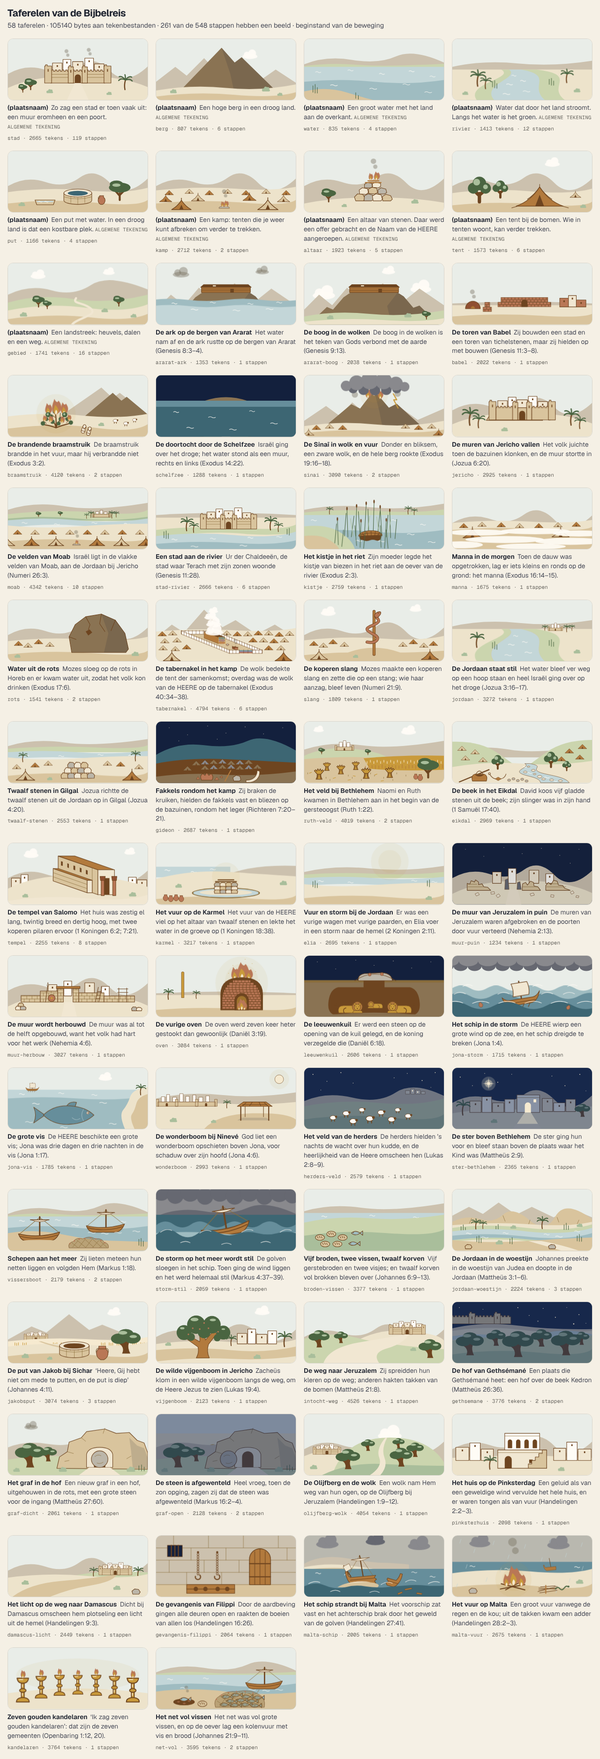
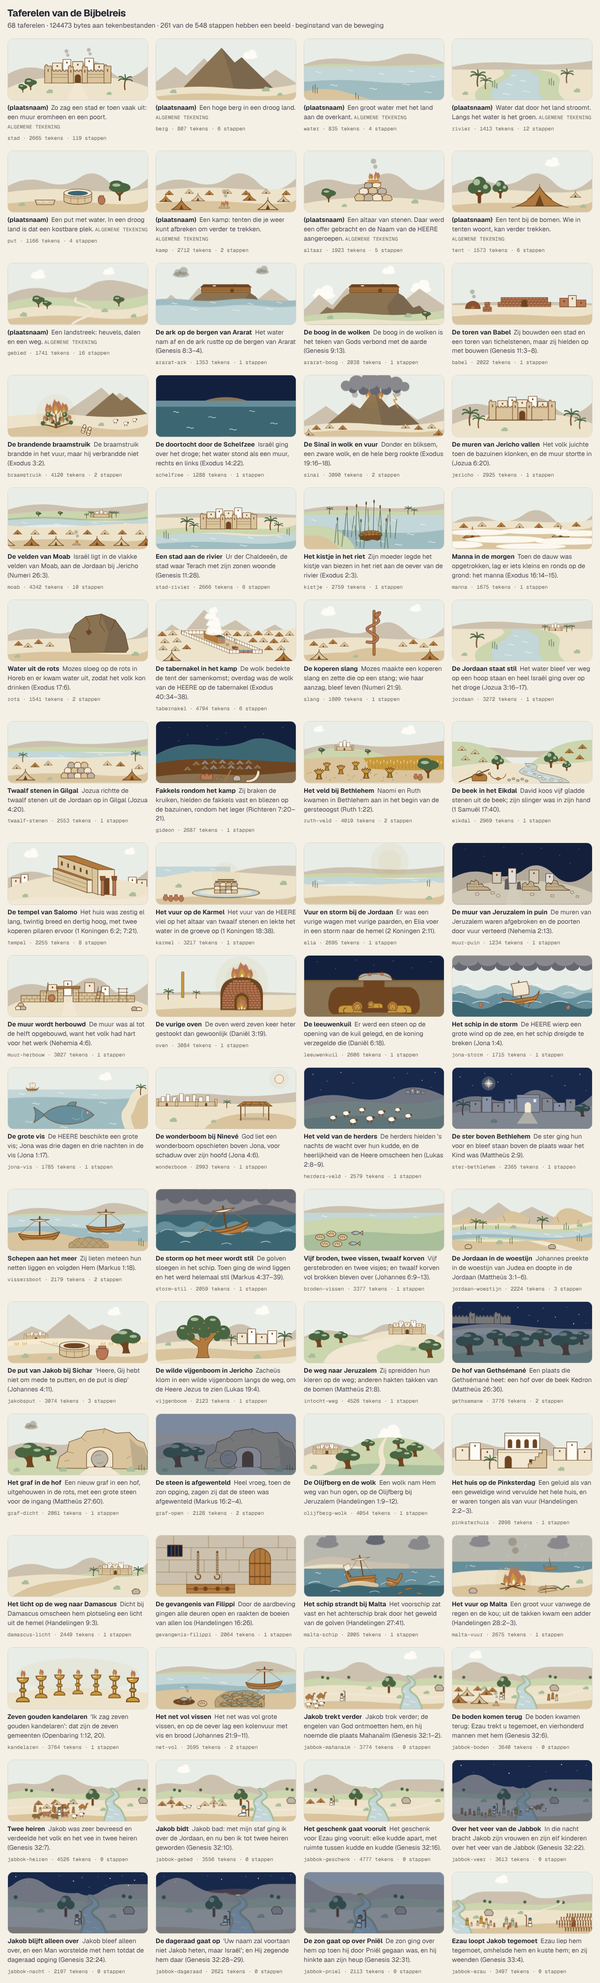
Bijbelreis: beeldverhaal bij Genesis 32 in tien taferelen (Jakob bij de Jabbok)
Claude-Session: https://claude.ai/code/session_01UATKx6UxsaYkAXo5tNKtaQ

diff --git a/public/bijbelreis/taferelen-jakob.js b/public/bijbelreis/taferelen-jakob.js
@@ -1,0 +1,149 @@
+// Beeldverhaal bij Genesis 32 en 33:1–4: Jakob bij de Jabbok, in tien taferelen (één bij elke stap van het deel
+// genesis:jakob-jabbok). Motor, bouwstenen (BR.tfTeken) en standaardbeelden: taferelen.js. Regels en tekenafspraken:
+// docs/bijbelreis-taferelen/README.md. Elk tafereel is gecontroleerd met de Statenvertaling (node scripts/sv.mjs "Genesis 32").
+// God wordt niet afgebeeld, en de Man Die met Jakob worstelt dus ook niet (32:30: ‘ik heb God gezien van aangezicht tot
+// aangezicht’); de engelen van 32:1 evenmin. Mensen staan er wel: klein, als pictogram en zonder gezicht. Jakob herken je
+// aan zijn staf (32:10), zijn witte kleed en zijn blauwe hoofddoek. Het is steeds hetzelfde dal: links de ronde berg, in
+// het midden de kloof waar de Jabbok uit komt, rechts de vlakke berg; de eik staat bij het veer. Het verhaal gaat van
+// links (het kamp) naar rechts (de overkant, waar Ezau vandaan komt). Welke stap welk beeld krijgt: taferelen-koppeling-jakob.js.
+window.BR = window.BR || { boeken: [], plaatsen: {}, W: {}, personen: {} };
+BR.taferelen = BR.taferelen || {};
+(function () {
+  const K = BR.tfTeken;
+  const h = (n) => Math.round(n * 2) / 2;
+  // Een cirkel als deel van een pad (één boog die bijna rond is); middelpunt (x, y).
+  const cirkel = (x, y, r) => `M${h(x)} ${h(y - r)}a${r} ${r} 0 1 0 .1 0`;
+  // Een vorm uit een sjabloon (M absoluut, de rest relatief, zonder bogen) op (x, y), s keer zo groot.
+  const vorm = (d, x, y, s) => d.replace(/([a-zA-Z])([^a-zA-Z]*)/g, (_, c, n) => c + (n.match(/-?\d*\.?\d+/g) || []).map((g, i) => h(g * s + (c === "M" ? (i ? y : x) : 0))).join(" ")).replace(/ -/g, "-");
+  const rij = (l, f) => l.map((a) => f(...a)).join("");
+
+  // ---------- het dal van de Jabbok ----------
+  // Eén landschap, breder dan het beeld (x van -90 tot 480); elk tafereel kijkt door een eigen venster (verschuiving en
+  // vergroting). De rug in de verte dient ook als omtrek voor de sluier bij de dageraad.
+  const RUG = "M-90 62Q-60 50-30 54T20 46Q50 20 82 46 110 64 140 60 160 70 178 60 200 44 226 44H296Q318 44 336 54T400 56 480 50V140H-90z";
+  const dal = (venster) => `<g${venster ? ` transform="${venster}"` : ""}><path class="k-berg2" d="${RUG}"/>` +
+    `<path class="k-groen" d="M-90 80Q-40 62 10 72T100 76Q140 70 160 80 190 66 240 70T340 74 480 66V140H-90z"/><path class="l-salie2 rand" d="M-34 68h.1M-22 70h.1M26 68h.1M224 66h.1M236 68h.1M316 68h.1M392 67h.1M404 69h.1"/>` +
+    `<path class="k-land" d="M-90 92Q-20 82 60 88T160 90 280 86 480 88V140H-90z"/><path class="k-zand" d="M-90 128Q0 118 100 126T300 122 480 126V140H-90z"/>` +
+    // de weg: door het kamp naar het veer, en aan de overkant het land in, naar het zuiden
+    `<path class="l-duin breed" d="M-90 112Q-20 102 60 108T152 111M184 113Q230 117 270 105T352 89"/><path class="l-duin dik" d="M356 86Q384 80 402 68"/>` +
+    // de beek met groen langs het water, en het veer
+    `<path class="k-zee oever" d="M161 67C165 72 170 76 168 80S150 88 150 96 156 108 153 116 147 132 146 140H192C190 132 186 124 182 116S164 104 164 96 178 88 176 80 167 72 164 67z"/>` +
+    `<path class="l-wit tf-l-golf" d="M153 100q2-2.5 4 0t4 0M159 113q2.5-2.5 5 0t5 0M156 130q3-2.5 6 0t6 0M172 124q2.5-2.5 5 0t5 0"/>` +
+    // de eik bij het veer, de rots aan de overkant en een paar struiken
+    `<path class="l-hout2 breed" d="M118 102V90"/><path class="k-salie2" d="${cirkel(110, 82, 8) + cirkel(126, 82, 8) + cirkel(118, 75, 10)}"/><path class="k-salie" d="${cirkel(114, 73, 4.5)}"/>` +
+    K.steen("M226 99l-3-8 6-6 10 1 5 7-2 6", "k-steen") + `<path class="k-salie" d="${rij([[136, 116], [198, 106], [66, 96], [300, 96]], (x, y) => `M${x} ${y}q-3-5 3-5 1-4 5-2 4-1 4 3 2 2 0 4z`)}"/></g>`;
+  // Vensters: A het kamp op de linkeroever (de beek rechts in beeld), geen venster: het veer in het midden, C dichtbij op
+  // de linkeroever, D dichtbij bij het veer met de kloof erboven, E de overkant (de beek links in beeld).
+  const A = "translate(76 0)", C = "translate(-15 -28) scale(1.25)", D = "translate(-71 -28) scale(1.25)", E = "translate(-150 0)";
+  // Nacht (zie de README): nachtlucht erachter, het land in gewone kleuren, daaroverheen de sluier, de sterren erna.
+  const nacht = `<path class="k-nacht" d="M0 0h320v140H0z"/>`, sluier = `<path class="k-sluier" d="M0 0h320v140H0z"/>`;
+  // Sterren: kleine stippen, en met g = 1 een paar grotere.
+  const sterren = (p, g) => `<path class="l-licht${g ? " dik" : ""}" d="${rij(p, (x, y) => `M${x} ${y}h.1`)}"/>`;
+
+  // ---------- mensen: klein, als pictogram, zonder gezicht ----------
+  // Een lang kleed en een hoofd. l = [[x, y, schaal], …], de voeten op (x, y). Een vrouw heeft een doek over het hoofd,
+  // in de kleur van haar kleed.
+  const LIJF = "M-3 0l1-8.5q2-1.5 4 0l1 8.5z";
+  const mensen = (l, k = "k-hout") => `<path class="${k} o2" d="${rij(l, (x, y, s = 1) => vorm(LIJF, x, y, s))}${k === "k-hout" ? "" : `"/><path class="k-hout o2" d="`}${rij(l, (x, y, s = 1) => cirkel(x, y - 11 * s, h(2.2 * s)))}"/>`;
+  const vrouwen = (l, k) => `<path class="${k} o2" d="${rij(l, (x, y, s = 1) => vorm(LIJF + "M-2.5-8q-.5-5.5 2.5-5.5t2.5 5.5z", x, y, s))}"/>`;
+  // Jakob: wit kleed, blauwe gordel en hoofddoek, de staf in de hand (Genesis 32:10). stand: "" staat, "k" knielt, "l" leunt op de staf.
+  const KLEED = `<path class="k-wit o2" d="${LIJF}"/><path class="k-water2" d="M-2.5-5.5h5v1.5h-5z"/>`;
+  const KOP = `<circle class="k-hout o2" cy="-11" r="2.2"/><path class="k-water2" d="M-2.5-11a2.5 2.5 0 0 1 5 0z"/>`;
+  const STAF = (x) => `<path class="l-hout2" d="M${x} 0v-15q0-2.5-2.5-2.5"/>`;
+  const jakob = (x, y, s = 1, stand = "") => `<g ${K.op(x, y, s)}>` + (stand === "k"
+    ? STAF(6) + `<path class="k-wit o2" d="M-6 0h9l-.5-7.5q-2-1.5-4 0l-.5 4.5q-4 .5-4 3z"/><path class="k-water2" d="M-2-4.5h4.5v1.5H-2z"/><g transform="translate(.5 1)">${KOP}</g><path class="l-hout2" d="M2.5-6.5l3.5-1.5"/>`
+    : stand === "l" ? STAF(7.5) + `<g transform="rotate(10)">${KLEED + KOP}<path class="l-hout2" d="M2-7l3.5-2"/></g>`
+    : STAF(5.5) + KLEED + KOP + `<path class="l-hout2" d="M2.5-7l3-1"/>`) + "</g>";
+
+  // ---------- dieren (alle naar rechts, de poten op y); l = [[x, y, schaal], …] ----------
+  // Elke soort geeft [de poten, de lijven]; vee(soort, soort, …) zet alle poten van een tafereel in één lijn.
+  const vee = (...l) => `<path class="l-hout2" d="${l.map((a) => a[0]).join("")}"/>` + l.map((a) => a[1]).join("");
+  const soort = (poten, lijf, k) => (l, kleur = k) => [rij(l, (x, y, s = 1) => vorm(poten, x, y, s)), `<path class="${kleur}" d="${rij(l, (x, y, s = 1) => vorm(lijf, x, y, s))}"/>`];
+  const bol = (x, y, rx, ry) => `M${h(x)} ${h(y - ry)}a${h(rx)} ${h(ry)} 0 1 0 .1 0`;
+  const kop = (x, y, s = 1) => cirkel(x + 5 * s, y - 7.5 * s, h(1.8 * s));
+  // Schapen: wit, met een donkere kop. Geiten: donker, met horens.
+  const schapen = (l) => [rij(l, (x, y, s = 1) => vorm("M-2.5-4v4m5-4v4", x, y, s)), `<path class="k-wit o2" d="${rij(l, (x, y, s = 1) => bol(x, y - 6 * s, 5.5 * s, 3.5 * s))}"/><path class="k-hout2" d="${rij(l, kop)}"/>`];
+  const geiten = (l) => [rij(l, (x, y, s = 1) => vorm("M-2.5-4v4m5-4v4M5-9l-2-3M6.5-9l-.5-3.5M-5-6.5l-1.5-2", x, y, s)), `<path class="k-hout2" d="${rij(l, (x, y, s = 1) => bol(x, y - 5.5 * s, 5 * s, 3 * s) + kop(x, y, s))}"/>`];
+  // De kameel van de atlas (de vorm van de reiziger op de kaart, vereenvoudigd en zonder zadel); een veulen is een kleine kameel.
+  const kamelen = soort("M-5-3.5v3.5m2.5-3.5v3.5m6-3.5v3.5m2.5-3.5v3.5", "M-7.5-5.5q0-3.5 3.5-3.5 1-3 3.5-3t3.5 3q2.5-.5 3 2l1.5-5.5q.5-2 3-1.5l1.5.5-.5 1.5h-2l-1.5 7q-.5 2-2.5 2h-11q-2.5 0-2.5-2z", "k-hout o2");
+  // Runderen (met horens en een staart) en ezels (grijs, met lange oren).
+  const runderen = soort("M-6-4v4m2.5-4v4m6.5-4v4m2.5-4v4M-8-9.5q-1.5 2-1 5M7.5-11.5q-.5-2.5 2-3", "M-8-4.5v-4q0-2 2-2h10.5l1-1h3.5q1.5 0 1.5 1.5v2q0 1.5-1.5 1.5h-3v2.5q0 2-2 2z", "k-terra o2");
+  const ezels = soort("M-4.5-3.5v3.5m2-3.5v3.5m5-3.5v3.5m2-3.5v3.5M6.5-11.5l-1-4M8-11.5l.5-4M-6.5-8q-1.5 1.5-1 4", "M-6.5-4v-3q0-2 2-2h8l2-2.5h3l1.5 4-1.5 1.5h-3v2q0 2-2 2z", "k-steen o2");
+  // Tenten in de verte: alleen een driehoek met een opening.
+  const tentjes = (l, k = "k-zand") => `<path class="${k} o2" d="${rij(l, (x, y) => `M${x - 10} ${y}l10-10 10 10z`)}"/><path class="k-hout2" d="${rij(l, (x, y) => `M${x - 2} ${y}l2-5 2 5z`)}"/>`;
+
+  // Het gezin van Jakob (Genesis 32:22): twee vrouwen (oker), twee dienstmaagden (groen) en elf kinderen. p = de plaatsen,
+  // in die volgorde: [vrouw, vrouw, dienstmaagd, dienstmaagd, elf kinderen].
+  const gezin = (p, m = 1.15) => ((p) => vrouwen(p.slice(0, 2), "k-oker") + vrouwen(p.slice(2, 4), "k-salie") + mensen(p.slice(4, 10), "k-zand") + mensen(p.slice(10, 15), "k-terra"))(p.map(([x, y, s]) => [x, y, s * m]));
+
+  Object.assign(BR.taferelen, {
+    // Genesis 32:1–2: ‘Jakob toog ook zijns weegs; en de engelen Gods ontmoetten hem.’ Getekend is de stoet op weg door Gilead
+    // (31:17–18: zijn zonen, zijn vrouwen, zijn vee) en Jakob die stilstaat. De engelen zijn niet getekend: de weg vóór hem is leeg.
+    "jabbok-mahanaim": { n: "Jakob trekt verder",
+      label: "Het bergland van Gilead, met rechts in het dal de beek Jabbok. Over de weg komt een stoet aan: voorop Jakob met zijn staf, achter hem kamelen, zijn vrouwen en kinderen, en schapen. Jakob staat stil; de weg vóór hem is leeg.",
+      svg: `<g class="tf-l-drijf">${K.wolk(250, 22, 0.9)}</g>` + dal(A) + `<g class="tf-e-kom">` + vee(kamelen([[128, 112, 1.15], [102, 114, 1.15]]), schapen([[114, 124, 1.1], [130, 128, 1.1], [100, 130, 1.1], [118, 134, 1.1]])) +
+        gezin([[76, 116, 1.1], [64, 113, 1.1], [46, 115, 1.1], [32, 112, 1.1], [86, 121, 0.7], [70, 122, 0.8], [56, 121, 0.6], [40, 120, 0.75], [24, 118, 0.85], [80, 127, 0.6], [52, 127, 0.7], [18, 124, 0.65], [34, 127, 0.55], [66, 129, 0.65], [10, 115, 0.9]]) +
+        jakob(176, 116, 1.3) + `</g>` },
+    // Genesis 32:3–6: boden naar Ezau in het land Seïr; zij komen terug: ‘ook trekt hij u tegemoet, en vierhonderd mannen met hem’.
+    "jabbok-boden": { n: "De boden komen terug",
+      label: "Het kamp van Jakob staat op de linkeroever van de Jabbok: tenten, met een vuurtje. Over de weg van de overkant komen de boden terug door het veer; Jakob wacht hen op met zijn staf in de hand.",
+      svg: `<g class="tf-l-drijf">${K.wolk(60, 20, 0.9)}</g>` + dal() + tentjes([[14, 100], [58, 98], [92, 101]], "k-hout") + K.tent(34, 110, 0.9) + K.tent(78, 108, 0.8, "k-hout") + K.tent(14, 126, 1.1, "k-hout") + K.tent(62, 128, 1.1) +
+        `<path class="k-steen o2" d="M92 133q0-3 4-3h8q4 0 4 3z"/>` + K.vlam(100, 131, 0.6) + K.rook(100, 120, 0.9) + jakob(112, 119, 1.3) +
+        `<g class="tf-e-kom-r">${mensen([[131, 121, 1.15], [140, 118, 1.15]]) + mensen([[149, 122, 1.15]], "k-zand")}</g>` },
+    // Genesis 32:7–8: ‘hij verdeelde het volk, dat met hem was, en de schapen, en de runderen, en de kemels, in twee heiren’.
+    "jabbok-heiren": { n: "Twee heiren",
+      label: "Jakob staat met zijn staf in het midden. Links en rechts van hem wijkt het kamp uit elkaar tot twee groepen, met ruimte ertussen: in elke groep tenten, mensen, schapen, runderen en een kameel.",
+      svg: dal(A) + [0, 1].map((i) => `<g class="tf-e-wijk-${i ? "r" : "l"}">` + ((d) => tentjes([[22 + d, 102], [60 + d, 100]], i ? "k-zand" : "k-hout") + tentjes([[41 + d, 110]], i ? "k-hout" : "k-zand") +
+        mensen([[14 + d, 118, 1.1], [60 + d, 121, 1.1]]) + mensen([[26 + d, 122, 1.1]], "k-zand") + vee(kamelen([[80 + d, 114, 1.1]]), runderen([[40 + d, 130, 1.1]]), runderen([[18 + d, 135, 1.1]], "k-zand2 o2"), schapen([[62 + d, 134, 1.1], [78 + d, 130, 1.1]])))(i * 138) + `</g>`).join("") + jakob(118, 126, 1.4) },
+    // Genesis 32:9–12: Jakob bidt. ‘Ik ben met mijn staf over deze Jordaan gegaan, en nu ben ik tot twee heiren geworden!’
+    // Dat hij knielt, staat er niet; het is gekozen om te laten zien dat hij bidt.
+    "jabbok-gebed": { n: "Jakob bidt",
+      label: "Jakob knielt alleen bij de beek, zijn staf in de hand. Achter hem, verderop op de oever, staan de twee kampen, elk met een vuurtje waar rook van opstijgt.",
+      svg: `<g class="tf-l-drijf">${K.wolk(70, 24, 0.9)}</g>` + dal(A) + tentjes([[14, 104], [34, 100], [54, 104]], "k-hout") + tentjes([[112, 104], [132, 100], [152, 104]]) + K.vlam(36, 110, 0.5) + K.rook(36, 100, 0.8) + K.vlam(132, 110, 0.5, 3) + K.rook(132, 100, 0.8) +
+        vee(schapen([[66, 112, 0.8], [76, 110, 0.8], [98, 112, 0.8]])) + jakob(200, 128, 2, "k") },
+    // Genesis 32:13–21: het geschenk voor Ezau. ‘Elke kudde bijzonder … stelt ruimte tussen kudde en tussen kudde.’ De soorten in de
+    // volgorde van 32:14–15, de eerste voorop (rechts): geiten, schapen, kamelen met hun veulens, runderen, ezels. Geen aantallen.
+    "jabbok-geschenk": { n: "Het geschenk gaat vooruit",
+      label: "Over de weg en door het veer trekken vijf kudden achter elkaar naar de overkant, met ruimte ertussen: voorop de geiten, dan de schapen, de kamelen met hun veulens, de runderen en als laatste de ezels. Achter elke kudde loopt een knecht. Jakob blijft met zijn staf bij het kamp staan.",
+      svg: dal() + tentjes([[14, 99], [38, 97]], "k-hout") + jakob(62, 103, 1.2) + `<g class="tf-e-trek">` +
+        mensen([[262, 108, 0.9], [136, 117], [12, 113]]) + mensen([[198, 118], [72, 115]], "k-zand") +
+        vee(geiten([[274, 105, 0.9], [294, 100, 0.9], [285, 108, 0.9]]), schapen([[212, 115], [234, 112], [224, 120]]), kamelen([[151, 115], [176, 116], [163, 122, 0.6], [188, 122, 0.6]]),
+          runderen([[90, 113, 0.9], [110, 114, 0.9]]), runderen([[100, 121, 0.9]], "k-zand2 o2"), ezels([[26, 113], [40, 117], [50, 112, 0.7]])) + `</g>` },
+    // Genesis 32:22–23: ‘in dienzelfden nacht … zijn twee vrouwen, en zijn twee dienstmaagden, en zijn elf kinderen, en hij toog over
+    // het veer van de Jabbok … en hij deed overtrekken hetgeen hij had.’
+    "jabbok-veer": { n: "Over het veer van de Jabbok",
+      label: "Het is nacht. Door het veer van de Jabbok trekt het gezin van Jakob naar de overkant: twee vrouwen, twee dienstmaagden en elf kinderen. Aan de overkant staan al een kameel en schapen. Jakob staat met zijn staf op de linkeroever en blijft achter.",
+      svg: nacht + dal() + `<g class="tf-e-kom">` + vee(kamelen([[286, 108]]), schapen([[262, 112, 0.9], [272, 107, 0.9], [300, 112, 0.9]])) +
+        gezin([[236, 118, 1.1], [176, 122, 1.1], [208, 116, 1.1], [150, 118, 1.1], [246, 121, 0.8], [226, 122, 0.65], [218, 120, 0.75], [198, 121, 0.6], [186, 124, 0.8], [166, 125, 0.7], [158, 122, 0.55], [140, 121, 0.75], [130, 118, 0.85], [120, 121, 0.65], [112, 117, 0.9]]) + `</g>` +
+        jakob(96, 122, 1.3) + sluier + sterren([[48, 28], [96, 10], [176, 14], [214, 26], [286, 24], [306, 12]]) + sterren([[20, 12], [130, 30], [250, 10]], 1) },
+    // Genesis 32:24–26: ‘Doch Jakob bleef alleen over; en een man worstelde met hem, totdat de dageraad opging.’ De worsteling is niet
+    // getekend en de Man ook niet: alleen de nacht, de beek en Jakob, alleen.
+    "jabbok-nacht": { n: "Jakob blijft alleen over",
+      label: "Het is diep in de nacht. Bij de eik aan de Jabbok staat Jakob, helemaal alleen, met zijn staf. De overkant is leeg en donker. Het water stroomt; boven de bergen staan de sterren.",
+      svg: nacht + dal(C) + jakob(158, 120, 1.8) + sluier +
+        sterren([[44, 22], [118, 8], [186, 34], [206, 10], [262, 8], [308, 6], [224, 30]]) + sterren([[18, 10], [150, 20], [234, 14], [290, 18]], 1) +
+        `<circle class="k-okerz tf-l-gloed" cx="170" cy="12" r="1.3"/><circle class="k-okerz tf-l-gloed tf-w4" cx="276" cy="30" r="1.3"/>` },
+    // Genesis 32:26–29: ‘de dageraad is opgegaan’; ‘Uw naam zal voortaan niet Jakob heten, maar Israël’; ‘en Hij zegende hem aldaar’.
+    // Alleen Jakob en het eerste licht achter de bergen. Dat hij knielt, staat er niet (vergelijk Hosea 12:5: ‘hij weende en smeekte Hem’).
+    "jabbok-dageraad": { n: "De dageraad gaat op",
+      label: "Nog is het donker in het dal, maar achter de bergen, boven de kloof waar de beek uit komt, komt het eerste licht van de dageraad op en de sterren verbleken. Jakob knielt bij de eik aan de Jabbok, zijn staf in de hand. Er is niemand anders te zien.",
+      svg: nacht + sluier + `<g class="tf-e-rijs"><ellipse class="k-morgen" cx="185" cy="60" rx="150" ry="40"/><ellipse class="k-morgen" cx="185" cy="60" rx="104" ry="27"/><ellipse class="k-licht" cx="185" cy="60" rx="70" ry="17"/><ellipse class="k-okerz" cx="185" cy="60" rx="46" ry="10"/></g>` +
+        dal(C) + jakob(158, 121, 1.8, "k") + `<path class="k-sluier" transform="${C}" d="${RUG}"/>` +
+        sterren([[18, 10], [44, 22], [290, 14]]) + `<g class="tf-e-uit tf-w3">${sterren([[118, 8], [206, 10], [262, 8], [308, 6]]) + sterren([[150, 16], [234, 14]], 1)}</g>` },
+    // Genesis 32:30–31: ‘En de zon rees hem op, als hij door Pniël gegaan was; en hij was hinkende aan zijn heup.’
+    "jabbok-pniel": { n: "De zon gaat op over Pniël",
+      label: "Het is eerst nog donker; dan komt de zon op boven de kloof in de bergen en wordt het dag in het dal. Jakob is door het veer gegaan en loopt aan de overkant verder, hinkend, leunend op zijn staf.",
+      svg: `<path class="k-okerz" d="M0 30h320v40H0z"/><g class="tf-e-rijs"><circle class="k-licht" cx="129" cy="40" r="26"/><circle class="k-oker" cx="129" cy="40" r="11"/></g>` + dal(D) +
+        `<g class="tf-e-hink">${jakob(190, 126, 2.2, "l")}</g><g class="tf-e-dooft tf-w2">${sluier}</g>` },
+    // Genesis 33:1–4: ‘Ezau kwam, en vierhonderd mannen met hem’; de dienstmaagden en haar kinderen vooraan, Lea en haar kinderen meer
+    // achterwaarts, Rachel en Jozef de achterste; ‘hij boog zich zeven malen ter aarde’; ‘toen liep Ezau hem tegemoet, en nam hem in den
+    // arm, en viel hem aan den hals, en kuste hem; en zij weenden’. De vierhonderd zijn een menigte die buiten het beeld doorloopt.
+    "jabbok-ezau": { n: "Ezau loopt Jakob tegemoet",
+      label: "Het is dag, aan de overkant van de Jabbok. Rechts komt een grote menigte de weg af: de mannen van Ezau. Links staat het gezin van Jakob in drie groepen achter elkaar. Jakob buigt zich zeven keer naar de aarde; dan loopt Ezau, in het rood, naar hem toe en slaat zijn arm om hem heen.",
+      svg: `<g class="tf-l-drijf">${K.wolk(120, 20, 0.9)}</g>` + dal(E) +
+        `<path class="menigte" d="M262 100h70M238 116h94M258 132h74"/><path class="menigte m2" d="M248 108h84M244 124h88"/><path class="menigte kop" d="M263.5 95.5h70M249.5 103.5h84M239.5 111.5h94M245.5 119.5h88M259.5 127.5h74"/>` +
+        gezin([[66, 117, 1.1], [34, 121, 1.1], [124, 119, 1.1], [138, 122, 1.1], [44, 123, 0.6], [78, 119, 0.9], [88, 122, 0.8], [58, 122, 0.75], [72, 125, 0.7], [82, 128, 0.6], [96, 125, 0.65], [132, 126, 0.7], [118, 125, 0.6], [146, 126, 0.75], [128, 130, 0.55]]) +
+        `<g ${K.op(178, 124, 1.5)}>${STAF(-5.5)}<path class="k-wit o2" d="M-3 0l.5-5h5l.5 5z"/><g class="tf-e-buig"><path class="k-wit o2" d="M-2.5-4.5l.5-4q2-1.5 4 0l.5 4z"/>${KOP}</g><path class="k-water2" d="M-2.5-5.5h5v1.5h-5z"/></g>` +
+        `<g class="tf-e-kom-r tf-w9"><g ${K.op(187, 124, 1.5)}><path class="k-terra2 o2" d="${LIJF}"/><circle class="k-hout o2" cy="-11" r="2.2"/><path class="l-terra dik" d="M-1-7.5l-5.5-1"/></g></g>` },
+  });
+})();

diff --git a/tests/bijbelreis-taferelen.test.ts b/tests/bijbelreis-taferelen.test.ts
@@ -52,6 +52,12 @@ const NT: Record<string, string[]> = {
   pinksterhuis: ["handelingen:nt-gemeente:0"], "damascus-licht": ["handelingen:nt-paulus:0"], "gevangenis-filippi": ["handelingen:nt-paulus:10"],
   "malta-schip": ["handelingen:nt-paulusrome:5"], "malta-vuur": ["handelingen:nt-paulusrome:6"], kandelaren: ["openbaring:nt-openbaring:0"],
 };
+// Het beeldverhaal bij Genesis 32 (taferelen-jakob.js): bij elke stap van het deel genesis:jakob-jabbok een eigen tafereel
+// (taferelen-koppeling-jakob.js). Het deel wordt op een andere tak geschreven; zolang het er niet is, doen de sleutels niets.
+const JAKOB = ["jabbok-mahanaim", "jabbok-boden", "jabbok-heiren", "jabbok-gebed", "jabbok-geschenk", "jabbok-veer", "jabbok-nacht", "jabbok-dageraad", "jabbok-pniel", "jabbok-ezau"];
+const jk: { window: { BR: { beelden: Record<string, Koppeling> } } } = { window: { BR: { beelden: {} } } };
+runInNewContext(readFileSync(join(PUB, "bijbelreis", "taferelen-koppeling-jakob.js"), "utf8").replace(/\bBR\./g, "window.BR."), jk);
+const KOPPEL_JAKOB = jk.window.BR.beelden;
 
 // Bestaat de verwijzing in de Statenvertaling (data/statenvertaling, alleen voor controle)?
 const bijbel: Record<string, { hoofdstukken: Record<string, string[]> }> = {};
@@ -218,6 +224,49 @@ describe("taferelen: koppeling", () => {
   it("Nieuwe Testament: bij de kruisiging staat geen tafereel, en geen label noemt een gestalte", () => {
     for (const key of ["jezus-3:nt-lijden:6", "jezus-3:nt-lijden:7"]) { expect(STAP.get(key)!.at, key).toContain("nt_golgotha"); expect(BR.tafereel.van(STAP.get(key)!), key).toBeNull(); }
     for (const id of Object.keys(NT)) expect(T[id].label, id).not.toMatch(/engel|Kind|gestalte|silhouet|duif|\bman\b|vrouw|herder\b|discipel/i);
+  });
+  it("Genesis 32: de tien stappen van genesis:jakob-jabbok hebben elk een eigen tafereel, in volgorde", () => {
+    expect(Object.keys(KOPPEL_JAKOB)).toEqual(JAKOB.map((_, i) => `genesis:jakob-jabbok:${i}`));
+    expect(new Set(Object.values(KOPPEL_JAKOB).map((k) => k.t)).size).toBe(10);
+    const plek = (s: string) => html.indexOf(`/bijbelreis/${s}`);
+    expect(plek("taferelen-jakob.js")).toBeLessThan(plek("taferelen-koppeling-jakob.js"));
+    expect(plek("taferelen-koppeling-nt.js")).toBeLessThan(plek("taferelen-koppeling-jakob.js"));
+    expect(plek("taferelen-koppeling-jakob.js")).toBeLessThan(plek("app.js"));
+    // Bestaat het deel, dan heeft het tien stappen en krijgt elke stap zijn eigen tafereel. Bestaat het (nog) niet, dan
+    // hangen deze taferelen aan geen enkele stap en doen de sleutels niets.
+    const deel = BR.boeken.find((b) => b.id === "genesis")?.delen.find((d) => d.id === "jakob-jabbok");
+    if (deel) expect(deel.steps.length, "genesis:jakob-jabbok").toBe(10);
+    JAKOB.forEach((id, i) => {
+      const key = `genesis:jakob-jabbok:${i}`;
+      expect(T[id], id).toBeTruthy();
+      expect(KOPPEL_JAKOB[key].t, key).toBe(id);
+      expect(BR.beelden[key], key).toEqual(KOPPEL_JAKOB[key]);
+      if (deel) { const b = BR.tafereel.van(STAP.get(key)!)!; expect(b.id, key).toBe(id); expect(b.algemeen, key).toBeUndefined(); }
+      else expect(STAP.has(key), key).toBe(false);
+    });
+    for (const [key, k] of Object.entries(BR.beelden)) if (JAKOB.includes(k.t)) expect(key.startsWith("genesis:jakob-jabbok:"), key).toBe(true);
+  });
+  it("Genesis 32: de Man en de engelen zijn nergens afgebeeld, en de aantallen kloppen", () => {
+    // Het label zegt wat er te zien is; het noemt de Man, God, een engel of de worsteling dus niet als iets wat er staat.
+    for (const id of JAKOB) expect(T[id].label, id).not.toMatch(/engel|\bman\b|\bGod|gestalte|silhouet|worstel/i);
+    expect(T["jabbok-nacht"].label).toMatch(/helemaal alleen/);
+    expect(T["jabbok-dageraad"].label).toMatch(/niemand anders/);
+    // Het gezin (32:22): twee vrouwen, twee dienstmaagden, elf kinderen. Een vrouw is een lijf met een doek (twee
+    // deelpaden), een kind een lijf; de kinderen staan in twee kleuren (zand en terra).
+    const delen = (id: string, k: string) => (T[id].svg.match(new RegExp(`<path class="${k} o2" d="([^"]+)"`)) || ["", ""])[1].split("M").length - 1;
+    for (const id of ["jabbok-mahanaim", "jabbok-veer", "jabbok-ezau"]) {
+      expect(delen(id, "k-oker"), `${id}: twee vrouwen`).toBe(4);
+      expect(delen(id, "k-salie"), `${id}: twee dienstmaagden`).toBe(4);
+      expect(delen(id, "k-zand") + delen(id, "k-terra"), `${id}: elf kinderen`).toBe(11);
+    }
+    // Twee heiren (32:7): twee groepen die uit elkaar wijken.
+    expect(T["jabbok-heiren"].svg.match(/tf-e-wijk-[lr]/g)).toEqual(["tf-e-wijk-l", "tf-e-wijk-r"]);
+    // Het geschenk (32:14–15): vijf soorten, elk een eigen kudde, in de volgorde van de tekst; geen label noemt een aantal dieren.
+    const volgorde = ["geiten", "schapen", "kamelen", "runderen", "ezels"].map((d) => T["jabbok-geschenk"].label.indexOf(d));
+    expect(volgorde.every((p, i) => p > 0 && (i === 0 || p > volgorde[i - 1])), "volgorde van de kudden").toBe(true);
+    for (const id of JAKOB) expect(T[id].label, id).not.toMatch(/\b(?:tien|twintig|dertig|veertig|honderd|tweehonderd|vierhonderd)\b/i);
+    // Zeven keer buigen (33:3).
+    expect(css).toMatch(/\.tf-e-buig \{ animation: tf-buig [\d.]+s [a-z-]+ 7 both; \}/);
   });
   it("de afwijkende soorten per plaats kloppen met plaatsen en register", () => {
     for (const [id, v] of Object.entries(BR.beeldSoort)) {

diff --git a/public/bijbelreis/bijbelreis.css b/public/bijbelreis/bijbelreis.css
@@ -988,6 +988,22 @@ body[data-niveau="a"] .verhaal.samen .tafereel figcaption { font-size: 0.9rem; }
 @keyframes tf-rijs { from { transform: translateY(18px); } }
 @keyframes tf-kom { from { transform: translate(-90px, 6px); } }
 @keyframes tf-beef { 0%, 100% { transform: none; } 10%, 50% { transform: translate(-2px, 1px); } 20%, 60% { transform: translate(2px, -1px); } 30%, 70% { transform: translate(-1.5px, -1px); } 40%, 85% { transform: translate(1.5px, 1px); } }
+/* Beeldverhaal bij Genesis 32 (taferelen-jakob.js): een menigte als gestreepte lijnen (rijen lijven, ‘m2’ in een
+   tweede kleur, en met ‘kop’ de hoofden erboven), groen langs de beek (oever), het eerste morgenlicht, en vier bewegingen die tot rust komen. */
+.tf-svg .oever { stroke: var(--salie); stroke-width: 8; stroke-linejoin: round; paint-order: stroke; }
+.tf-svg .k-morgen { fill: var(--terra); fill-opacity: 0.3; }
+.tf-svg .menigte { fill: none; stroke: var(--zand-diep); stroke-width: 6; stroke-dasharray: 3 3; }
+.tf-svg .menigte.m2 { stroke: var(--terra); }
+.tf-svg .menigte.kop { stroke: var(--camel-dark); stroke-width: 3; stroke-linecap: round; stroke-dasharray: 0.1 5.9; }
+.tf-svg .tf-e-kom-r { animation: tf-kom-r 4s ease-out both; } /* begint 90 naar rechts en komt naar zijn plaats */
+.tf-svg .tf-e-trek { animation: tf-trek 12s cubic-bezier(0.3, 0.3, 0.5, 1) both; } /* een stoet komt van links het beeld in (begint 300 naar links) */
+.tf-svg .tf-e-hink { animation: tf-hink-weg 9s ease-out both, tf-hink-stap 1.5s ease-in-out 6 both; } /* komt hinkend van links (begint 66 naar links) */
+.tf-svg .tf-e-buig { animation: tf-buig 0.75s ease-in-out 7 both; } /* buigt zeven keer voorover (Genesis 33:3) en staat dan recht */
+@keyframes tf-kom-r { from { transform: translateX(90px); } }
+@keyframes tf-trek { from { transform: translateX(-300px); } }
+@keyframes tf-hink-weg { from { translate: -66px 0; } }
+@keyframes tf-hink-stap { 0%, 60%, 100% { transform: none; } 32% { transform: translateY(1px) rotate(7deg); } }
+@keyframes tf-buig { 0%, 100% { transform: none; } 50% { transform: rotate(64deg); } }
 .tf-svg .tf-w1 { animation-delay: 0.45s; } .tf-svg .tf-w2 { animation-delay: 0.9s; } .tf-svg .tf-w3 { animation-delay: 1.35s; }
 .tf-svg .tf-w4 { animation-delay: 1.8s; } .tf-svg .tf-w5 { animation-delay: 2.25s; } .tf-svg .tf-w6 { animation-delay: 2.7s; }
 .tf-svg .tf-w7 { animation-delay: 3.15s; } .tf-svg .tf-w8 { animation-delay: 3.6s; } .tf-svg .tf-w9 { animation-delay: 4.05s; }

diff --git a/public/bijbelreis/taferelen-koppeling-jakob.js b/public/bijbelreis/taferelen-koppeling-jakob.js
@@ -1,0 +1,17 @@
+// Koppelingen van het beeldverhaal bij Genesis 32 (taferelen-jakob.js): elke stap van het deel genesis:jakob-jabbok
+// (‘Jakob bij de Jabbok’) krijgt een eigen tafereel, zodat het hoofdstuk in tien beelden te volgen is. Uitleg van de
+// velden: taferelen-koppeling.js. Dit bestand wordt ná de andere koppelingen geladen en voegt alleen toe. Bestaat het
+// deel (nog) niet, dan doen deze sleutels niets.
+window.BR = window.BR || { boeken: [], plaatsen: {}, W: {}, personen: {} };
+BR.beelden = Object.assign(BR.beelden || {}, {
+  "genesis:jakob-jabbok:0": { t: "jabbok-mahanaim", tekst: "Jakob trok verder; de engelen van God ontmoetten hem, en hij noemde die plaats Mahanaïm (Genesis 32:1–2)." },
+  "genesis:jakob-jabbok:1": { t: "jabbok-boden", tekst: "De boden kwamen terug: Ezau trekt u tegemoet, en vierhonderd mannen met hem (Genesis 32:6)." },
+  "genesis:jakob-jabbok:2": { t: "jabbok-heiren", tekst: "Jakob was zeer bevreesd en verdeelde het volk en het vee in twee heiren (Genesis 32:7)." },
+  "genesis:jakob-jabbok:3": { t: "jabbok-gebed", tekst: "Jakob bad: met mijn staf ging ik over de Jordaan, en nu ben ik tot twee heiren geworden (Genesis 32:10)." },
+  "genesis:jakob-jabbok:4": { t: "jabbok-geschenk", tekst: "Het geschenk voor Ezau ging vooruit: elke kudde apart, met ruimte tussen kudde en kudde (Genesis 32:16)." },
+  "genesis:jakob-jabbok:5": { t: "jabbok-veer", tekst: "In die nacht bracht Jakob zijn vrouwen en zijn elf kinderen over het veer van de Jabbok (Genesis 32:22)." },
+  "genesis:jakob-jabbok:6": { t: "jabbok-nacht", tekst: "Jakob bleef alleen over, en een Man worstelde met hem totdat de dageraad opging (Genesis 32:24)." },
+  "genesis:jakob-jabbok:7": { t: "jabbok-dageraad", tekst: "‘Uw naam zal voortaan niet Jakob heten, maar Israël’; en Hij zegende hem daar (Genesis 32:28–29)." },
+  "genesis:jakob-jabbok:8": { t: "jabbok-pniel", tekst: "De zon ging over hem op toen hij door Pniël gegaan was, en hij hinkte aan zijn heup (Genesis 32:31)." },
+  "genesis:jakob-jabbok:9": { t: "jabbok-ezau", tekst: "Ezau liep hem tegemoet, omhelsde hem en kuste hem; en zij weenden (Genesis 33:4)." },
+});

diff --git a/public/bijbelreis.html b/public/bijbelreis.html
@@ -306,6 +306,8 @@
     <script src="/bijbelreis/taferelen-koppeling-ot-2.js"></script>
     <script src="/bijbelreis/taferelen-nt.js"></script>
     <script src="/bijbelreis/taferelen-koppeling-nt.js"></script>
+    <script src="/bijbelreis/taferelen-jakob.js"></script>
+    <script src="/bijbelreis/taferelen-koppeling-jakob.js"></script>
     <script src="/bijbelreis/app.js"></script>
   </body>
 </html>

diff --git a/docs/bijbelreis-taferelen/README.md b/docs/bijbelreis-taferelen/README.md
@@ -12,6 +12,8 @@ motor onderhoudt. Wie alleen wil zien wat er is: open `docs/bijbelreis-taferelen
 | `public/bijbelreis/taferelen-koppeling-ot-2.js` | De koppelingen van die tweede reeks; wordt ná `taferelen-koppeling.js` geladen en voegt toe |
 | `public/bijbelreis/taferelen-nt.js` | Eigen taferelen bij het Nieuwe Testament |
 | `public/bijbelreis/taferelen-koppeling-nt.js` | De koppelingen van het Nieuwe Testament; wordt ná `taferelen-koppeling.js` geladen en voegt toe |
+| `public/bijbelreis/taferelen-jakob.js` | Beeldverhaal bij Genesis 32: tien taferelen in één doorlopend landschap, met eigen bouwstenen (het dal van de Jabbok, mensen als pictogram, Jakob, kudden) |
+| `public/bijbelreis/taferelen-koppeling-jakob.js` | De koppelingen daarvan aan `genesis:jakob-jabbok:0` tot en met `9`; wordt als laatste koppeling geladen |
 | `public/bijbelreis/taferelen-koppeling.js` | Welke stap welk beeld krijgt (`BR.beelden`) en afwijkende soorten per plaats (`BR.beeldSoort`) |
 | `public/bijbelreis/taferelen-koppeling-nt.js` | De koppelingen voor het Nieuwe Testament (voegt toe aan `BR.beelden`; een latere sleutel gaat vóór een eerdere) |
 | `public/bijbelreis/bijbelreis.css` | Onderaan: opmaak, kleurklassen en beweging van de taferelen |
@@ -43,8 +45,9 @@ Deze regels zijn hard. Twijfel je, teken het dan niet en zet het bij de vragen i
    Nachtblauw alleen waar de tekst nacht zegt (de Schelfzee).
 6. **Techniek.** Alleen SVG-vormen en CSS-animaties. Geen script, geen afbeeldingen, geen lettertypen, geen
    verwijzingen naar buiten, geen `style`-attribuut. Een tafereel blijft liefst onder de 4000 tekens; de test staat
-   hooguit 6000 toe. Alle tekenbestanden samen (zonder de koppelingen) blijven onder 130 kB (nu 72 kB; de grens was 60 kB bij de
+   hooguit 6000 toe. Alle tekenbestanden samen (zonder de koppelingen) blijven onder 130 kB (nu 124 kB; de grens was 60 kB bij de
    eerste reeks van 31 kB en is verruimd voor de tweede reeks van het Oude Testament en de reeks van het Nieuwe Testament).
+   Er is nog 6 kB ruimte: een volgende reeks vraagt een besluit over de grens of over lichter tekenen.
 
 Een algemeen beeld is geen foto van die plaats. Daarom staat onder elk standaardbeeld ‘Algemene tekening’ en zegt de
 zin eronder wat je ziet (‘Zo zag een stad er toen vaak uit’), niet hoe het daar precies was.
@@ -116,6 +119,9 @@ af op hele of halve eenheden.
 | `dik`, `breed`, `boog` | lijndikte 2,4 · 5 · 3,2 |
 | `steen` (+ `s2`) | een rij tichelstenen als gestreepte lijn |
 | `korrel` (+ `s2`) | een rij witte korrels als gestippelde lijn (manna) |
+| `oever` | een groene rand om een vlak (de beek met groen langs het water, in één pad) |
+| `k-morgen` | doorschijnend rood: het eerste morgenlicht aan de rand van de nachtlucht |
+| `menigte` (+ `m2`, `kop`) | een rij mensen in de verte als gestreepte lijn: lijven in zand of (`m2`) terra, met `kop` de hoofden erboven |
 | `rand` | lijndikte 6,8: een donkere lijn (`l-hout2 rand`) ónder een brede lijn (`breed`) geeft die lijn een omlijning (de slang, de stang) |
 
 Een stip (een ster, een vonk) is een lijntje zonder lengte: `<path class="l-licht" d="M30 14h.1"/>`.
@@ -153,6 +159,10 @@ dat houdt de stijl gelijk en het bestand klein. Een onderdeel dat je twee keer n
 | `tf-e-rijs` | begint 18 lager en stijgt naar zijn plaats: de zon, de wolk (eenmalig) |
 | `tf-e-kom` | begint 90 naar links en komt naar zijn plaats: de ster (eenmalig) |
 | `tf-e-beef` | schudt kort, voor een aardbeving; zet het op de groep om het hele beeld (eenmalig) |
+| `tf-e-kom-r` | begint 90 naar rechts en komt naar zijn plaats: wie van de overkant komt (eenmalig) |
+| `tf-e-trek` | een stoet komt in twaalf seconden van links het beeld in (begint 300 naar links; eenmalig) |
+| `tf-e-hink` | komt hinkend van links: zes keer een slingerende stap, dan staat hij stil (eenmalig) |
+| `tf-e-buig` | buigt zeven keer voorover en staat dan recht (Genesis 33:3; eenmalig) |
 | `tf-w1` … `tf-w9` | wacht 0,45 s per stap voordat de beweging begint |
 
 Regels bij beweging:
@@ -321,6 +331,52 @@ Keuzes in deze reeks, voor wie verder tekent:
 - **Wat de tekst niet zegt, staat er niet**: geen os en ezel, geen aantal wijzen, geen kamelen, geen herdersstaf, geen
   maan boven de hof. Op de kandelaren staat wel een vlam: de tekst noemt die niet, maar een kandelaar draagt licht.
 
+### Beeldverhaal bij Genesis 32 (`taferelen-jakob.js`)
+
+Op verzoek van de eigenaar is Genesis 32 (met 33:1–4) in detail uitgebeeld: elke stap van het deel `genesis:jakob-jabbok`
+(‘Jakob bij de Jabbok’) heeft een eigen tafereel, zodat het hoofdstuk als een beeldverhaal in tien beelden te volgen is.
+Het deel zelf wordt op een andere tak geschreven; tot het er is, doen de koppelingen niets.
+
+| Stap | Id | Wat je ziet | Wat beweegt | Tekst |
+|---|---|---|---|---|
+| 0 | `jabbok-mahanaim` | de stoet over de weg door Gilead: Jakob voorop, kamelen, vrouwen en kinderen, schapen; de weg vóór Jakob is leeg | de stoet komt van links aan | Genesis 32:1–2 |
+| 1 | `jabbok-boden` | het kamp op de linkeroever; drie boden komen van de overkant terug, Jakob wacht | de boden komen van rechts | 32:3–6 |
+| 2 | `jabbok-heiren` | Jakob in het midden, het kamp in twee groepen met tenten, mensen, kameel, runderen en schapen | de groepen wijken uit elkaar | 32:7–8 |
+| 3 | `jabbok-gebed` | Jakob knielt alleen bij de beek, de twee kampen verderop | rook, de beek | 32:9–12 |
+| 4 | `jabbok-geschenk` | vijf kudden achter elkaar met ruimte ertussen, elk met een knecht: geiten, schapen, kamelen met veulens, runderen, ezels; Jakob blijft bij het kamp | de kudden trekken een voor een over het veer | 32:13–21 |
+| 5 | `jabbok-veer` | nacht; het gezin trekt door het veer: twee vrouwen (oker), twee dienstmaagden (groen), elf kinderen; Jakob blijft op de linkeroever | het gezin trekt naar de overkant | 32:22–23 |
+| 6 | `jabbok-nacht` | diepe nacht; Jakob helemaal alleen bij de eik, de overkant leeg | twee sterren, de beek | 32:24–26 |
+| 7 | `jabbok-dageraad` | nog nacht in het dal; achter de kloof komt het eerste licht op, Jakob knielt | het licht rijst, de sterren verbleken | 32:26–29 |
+| 8 | `jabbok-pniel` | de zon boven de kloof; Jakob aan de overkant, leunend op zijn staf | de zon komt op, het wordt dag, Jakob hinkt het beeld in | 32:30–31 |
+| 9 | `jabbok-ezau` | dag aan de overkant; het gezin in drie groepen, de menigte van Ezau, Jakob en Ezau (in het rood) samen | Jakob buigt zeven keer; Ezau loopt naar hem toe en slaat zijn arm om hem heen | 33:1–4 |
+
+Keuzes in deze reeks:
+
+- **Eén landschap.** Elk tafereel kijkt door een eigen venster naar hetzelfde dal (de bouwsteen `dal`): links de ronde
+  berg, in het midden de kloof waar de Jabbok uit komt, rechts de vlakke berg, de eik bij het veer, de grijze rots aan
+  de overkant. Het verhaal loopt van links (het kamp) naar rechts (de overkant, waar Ezau vandaan komt). Dag (0–4),
+  nacht (5–7), ochtend (8), dag (9).
+- **De Man en de engelen zijn niet getekend.** Niet als figuur, silhouet, hand of licht in mensvorm. Bij Mahanaïm is
+  de weg vóór Jakob leeg; bij de worsteling staat Jakob alleen in de nacht; daarna doen de dageraad en de opgaande zon
+  het werk. Een test bewaakt dat geen label de Man, God, een engel of de worsteling noemt.
+- **Mensen** zijn pictogrammen zonder gezicht: een lang kleed en een rond hoofd; een vrouw heeft een doek over het
+  hoofd. Jakob is herkenbaar aan zijn staf (32:10), zijn witte kleed en blauwe hoofddoek. Hij **knielt** bij stap 3 en 7:
+  dat staat niet in de tekst, maar laat zien dat hij bidt (vergelijk Hosea 12:5: ‘hij weende en smeekte Hem’).
+- **Aantallen**: twee heiren; twee vrouwen, twee dienstmaagden en elf kinderen (in stap 0, 5 en 9; een test telt ze);
+  zeven keer buigen. Het geschenk toont de **soorten in de volgorde** van 32:14–15, niet de aantallen: drie of vier dieren
+  per kudde. De vierhonderd man zijn een menigte in rijen die buiten het beeld doorloopt, niet telbaar. Bij stap 9 staan
+  de dienstmaagden vooraan (bij Jakob), Lea in het midden, Rachel achteraan (33:2); welk kind bij wie hoort, is niet uitgewerkt.
+- **Bij Ezau** (33:4: ‘nam hem in den arm, en viel hem aan den hals, en kuste hem; en zij weenden’) staan twee kleine
+  figuren tegen elkaar, met één arm; geen kus en geen tranen te zien.
+
+Wat een mens moet beoordelen:
+
+- Of Jakob als figuur mag (de opdracht stond het toe, klein en zonder gezicht), en of de knielende houding bij het
+  gebed en de dageraad passend is.
+- Of de dageraad (stap 7) op deze manier niet als ‘licht van God’ gelezen wordt: het is het gewone morgenlicht achter de
+  bergen, dat in stap 8 de zon wordt.
+- Of de menigte van Ezau dreigend genoeg (32:7: ‘toen vreesde Jakob zeer’) of juist te dreigend oogt.
+
 ## 7. Wat nog getekend moet worden
 
 Eerst de plekken die nu **geen** beeld hebben omdat het standaardbeeld daar iets zou tonen wat de Bijbel niet zegt
@@ -371,3 +427,7 @@ Dan de taferelen uit de opdracht:
   duidelijker zijn. Het afgebroken achterschip bij `malta-schip` lijkt op een tweede bootje. De
   wilde vijgenboom is een grote boom met vijgen, geen botanisch juiste sycomoor. De regen op Malta beweegt niet.
 - De nachtbeelden zijn onder de sluier grijsblauw; de huizen van Bethlehem zouden iets warmer mogen.
+- Genesis 32: de figuren zijn op telefoonbreedte heel klein (ongeveer 8 bij 16 beeldpunten); Jakob is te herkennen aan
+  wit en staf, de vrouwen en kinderen vooral als groep. Het gezin bij het veer staat ‘in’ het water zonder dat je ziet
+  dat ze waden. De omhelzing bij Ezau is klein en leest pas groot goed. Het morgenrood bij de dageraad is een paar
+  vlakke banden. Het geschenk is het zwaarste tafereel van de reeks (4,8 kB).
